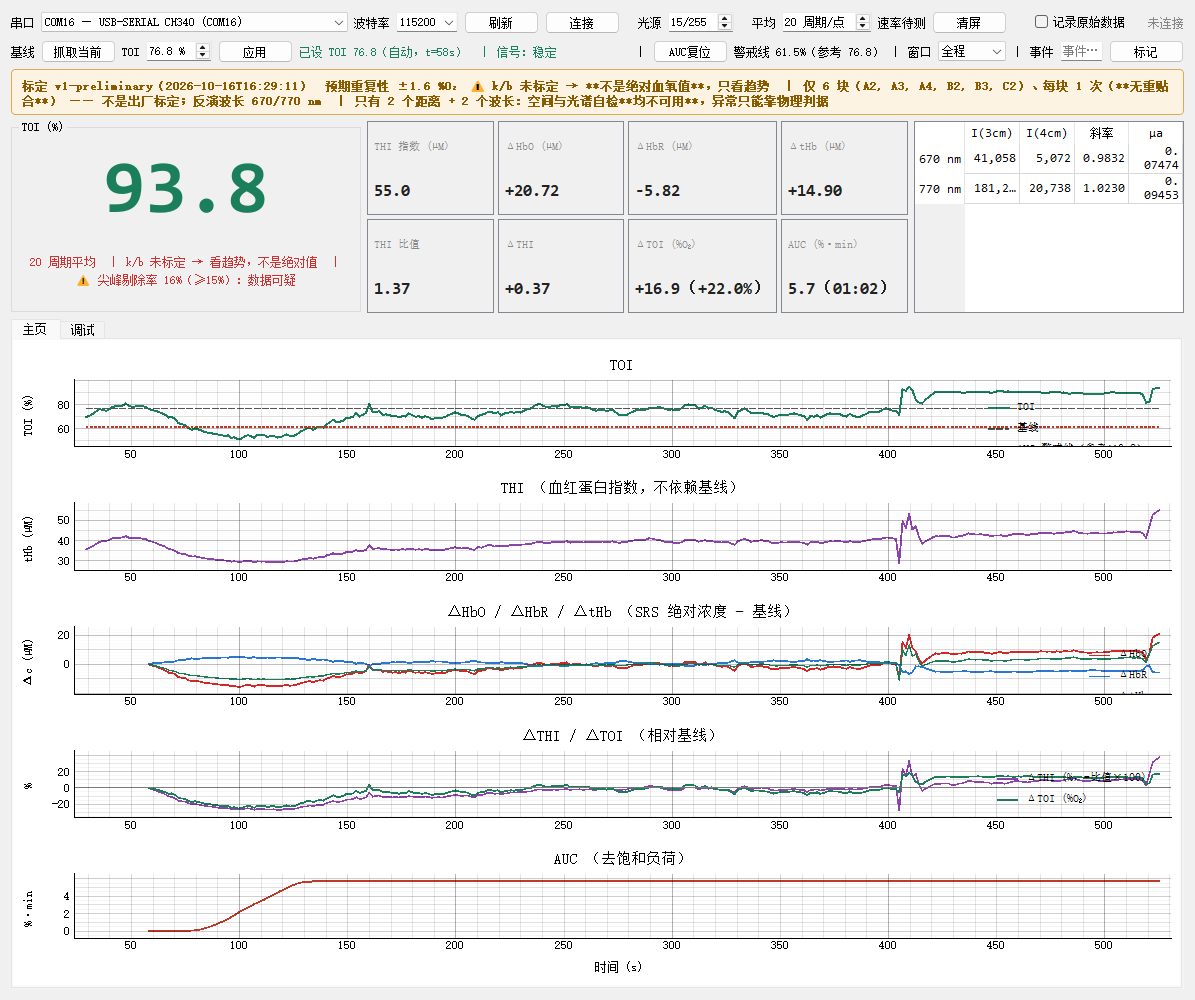
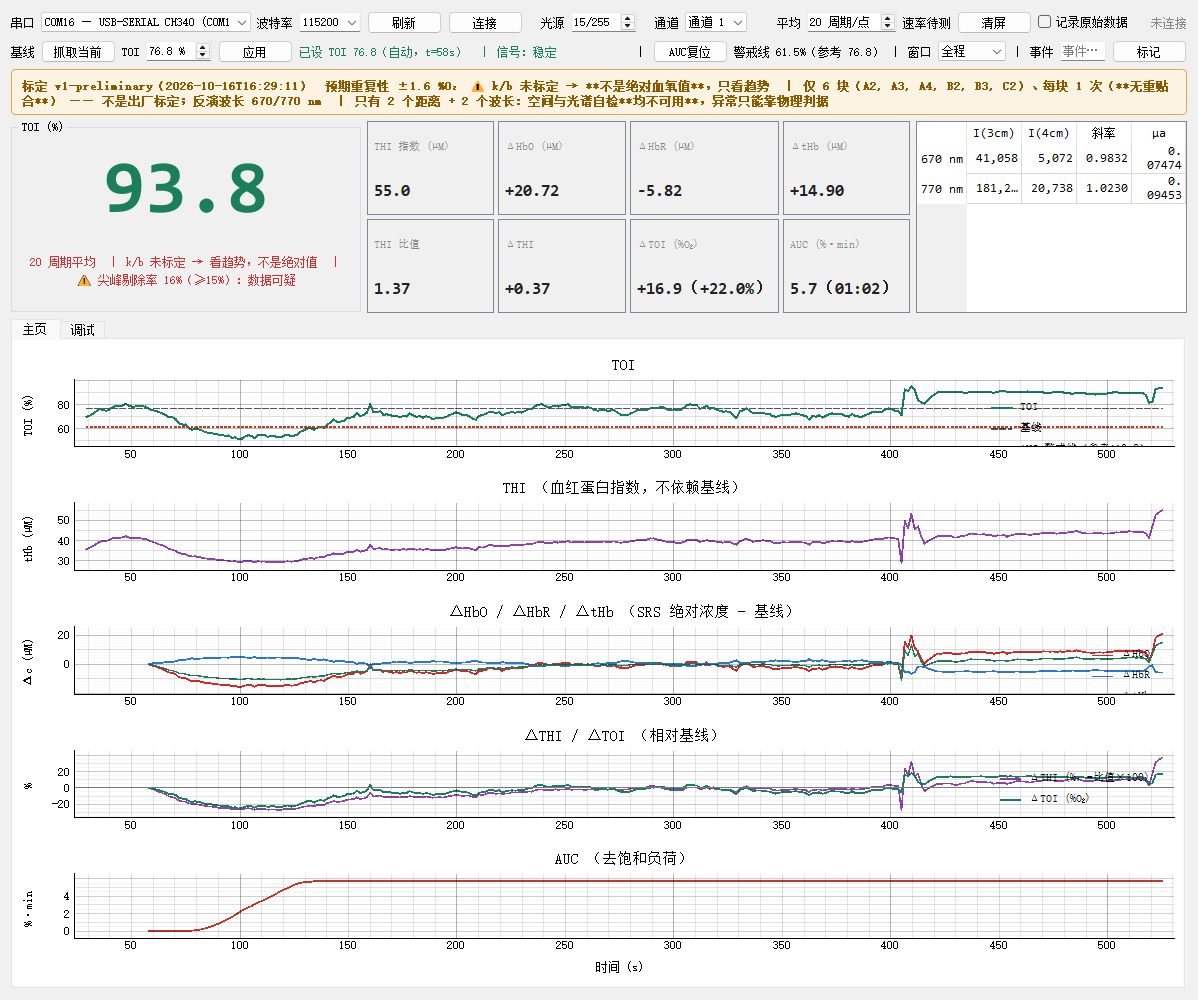
online增加通道切换功能

diff --git a/software/srs_cal/online.py b/software/srs_cal/online.py
@@ -75,7 +75,8 @@ from fnirs_pipeline.srs import (AUC_REL_DROP, BASELINE_N,  # noqa: E402
 from srs_cal.darksub import DarkSubtractor               # noqa: E402
 from srs_cal.quality import QualityMonitor, summarize    # noqa: E402
 from srs_cal.protocol import (BRIGHTNESS_DEFAULT, BRIGHTNESS_MAX,  # noqa: E402
-                              BRIGHTNESS_MIN, build_brightness)
+                              BRIGHTNESS_MIN, CHANNEL_MAX, CHANNEL_MIN,
+                              build_brightness)
 
 # DEFAULT_PORT / DEFAULT_GEAR 定义在 acquire.py，这里只 import（见上方 import 行）。
 # 两个程序共用一份，避免各改各的、悄悄跑偏。命令行 --port / --gear 可临时覆盖。
@@ -252,6 +253,13 @@ class OnlineWindow(QtWidgets.QWidget):
         self._no_dark = 0
         self._fresh: set = set()
         self._since = 0
+        # 通道校验：**以回传为准**。下发了 byte6 不等于设备真的切了 ——
+        # 2026-10-28 实测：下发通道 2，292 帧回来 byte10 全是 01，
+        # 且十路读数与通道 1 相差都在 ±1% 内（就是两次采集的正常起伏）。
+        # 所以不能拿「我发过」当「它切了」，只认数据帧自己标的通道号。
+        self._n_chan_ok = 0
+        self._n_chan_bad = 0
+        self._chan_seen: set = set()
         self._starved: list[str] = []
         self._frames = 0
         self._last_frames = 0
@@ -339,6 +347,26 @@ class OnlineWindow(QtWidgets.QWidget):
         self._bright_timer.setInterval(BRIGHTNESS_SETTLE_MS)
         self._bright_timer.timeout.connect(self._send_brightness)
         self.spn_bright.valueChanged.connect(self._bright_timer.start)
+        # 采集通道。与档位共用同一条指令帧（byte5 档位、byte6 通道），
+        # 所以改通道也走 _send_brightness。
+        self.cmb_chan = QtWidgets.QComboBox()
+        for c in range(CHANNEL_MIN, CHANNEL_MAX + 1):
+            self.cmb_chan.addItem(f"通道 {c}", c)
+        self.cmb_chan.setToolTip("\n".join((
+            f"采集通道 {CHANNEL_MIN}~{CHANNEL_MAX}。改动立即下发"
+            "（指令帧 byte6，与光源档位同一帧）。",
+            "",
+            "⚠ **byte6 是通道号这件事没有厂家文档**，是按字节位置推的。",
+            "⚠ 到 2026-10-28 为止，全部 46,572 帧归档里数据帧的 byte10",
+            "   （回传的通道号）**恒为 0x01**，从没出现过别的值。",
+            "   也就是说「切换生效了没有」目前**无法从回传数据上证实**。",
+            "   换通道后若读数毫无变化，先怀疑这条，别先怀疑探头。",
+            "",
+            "⚠ 换通道 = 换探头 = 换光学套件，**G(λ) 标定不跨套件转移**。",
+            "   每个通道都要各标一份，否则绝对值无意义。")))
+        self.cmb_chan.currentIndexChanged.connect(self._on_channel)
+        self.lbl_chan = QtWidgets.QLabel("")
+        self.lbl_chan.setStyleSheet("color:#8a5a00")
         self.lbl_avg = QtWidgets.QLabel()
         self.btn_reset = QtWidgets.QPushButton("清屏")
         self.btn_reset.setToolTip("清掉曲线、基线与 AUC，自动基线重新开始等稳定。")
@@ -347,6 +375,7 @@ class OnlineWindow(QtWidgets.QWidget):
                   QtWidgets.QLabel("波特率"), self.cmb_baud,
                   self.btn_refresh, self.btn_conn,
                   QtWidgets.QLabel("  光源"), self.spn_bright,
+                  QtWidgets.QLabel("  通道"), self.cmb_chan, self.lbl_chan,
                   QtWidgets.QLabel("  平均"), self.spn_avg, self.lbl_avg,
                   self.btn_reset):
             bar.addWidget(w)
@@ -700,30 +729,64 @@ class OnlineWindow(QtWidgets.QWidget):
         self.spn_bright.setValue(getattr(self, "auto_gear", DEFAULT_GEAR))
         self._bright_timer.start()
 
-    def _send_brightness(self) -> None:
-        """下发档位。在线没有「一次采集」的概念，随时可改。
+    def _on_channel(self) -> None:
+        """换通道 = 换探头。立即下发，并把界面状态全部作废。"""
+        self._bright_timer.stop()       # 不等防抖，换探头要立刻生效
+        self._send_brightness()
 
-        但 G(λ) 是在某个档位下标的 —— 换档位后 TOI 是否还成立取决于
-        五路 LED 是否等比例变化（未验证）。所以要在界面上留痕。
+    def channel(self) -> int:
+        return int(self.cmb_chan.currentData())
+
+    def _send_brightness(self) -> None:
+        """下发档位与通道（同一帧：byte5 档位、byte6 通道）。
+
+        在线没有「一次采集」的概念，随时可改。但 G(λ) 是在某个档位、某个探头
+        下标的 —— 换档位后 TOI 是否还成立取决于五路 LED 是否等比例变化
+        （未验证）；换通道则直接换了光学套件，**标定一定不再成立**。
+        所以两者都要清屏、都要轮转归档、都要在界面上留痕。
         """
         if self.worker is None:
             return
-        g = self.spn_bright.value()
+        g, ch = self.spn_bright.value(), self.channel()
         prev = getattr(self, "_gear_sent", None)
-        self.worker.send(build_brightness(g))
-        self._gear_sent = g
-        self._reset()               # 换了光源，之前的曲线不是同一条件，清掉
-        # 归档同理：换档位就开新文件，让每个归档文件的头里恰好**一个**档位。
-        # 否则文件头记的是开始归档那一刻的档位，中途改了就对不上 ——
-        # 而原始帧里**不含档位**（档位只在出站的指令帧里），事后无从还原。
+        prev_ch = getattr(self, "_chan_sent", None)
+        self.worker.send(build_brightness(g, ch))
+        self._gear_sent, self._chan_sent = g, ch
+        self._reset()               # 换了光源/探头，之前的曲线不是同一条件，清掉
+        # 归档同理：换档位或换通道就开新文件，让每个归档文件的头里恰好
+        # **一个**档位、**一个**通道。否则文件头记的是开始归档那一刻的值，
+        # 中途改了就对不上 —— 而原始帧里**不含档位**（档位只在出站的指令帧里），
+        # 通道虽有 byte10 但实测恒为 0x01，两者事后都无从还原。
         #
-        # ⚠ 只在档位**真的变了**时轮转。`_send_brightness` 会被防抖定时器
+        # ⚠ 只在**真的变了**时轮转。`_send_brightness` 会被防抖定时器
         #    重复触发（同一档位也会再发一次），不加这个守卫会产生文件碎片。
-        if self.archive is not None and prev != g:
+        if self.archive is not None and (prev != g or prev_ch != ch):
             self._stop_record()
             self._start_record()
-        # 质量层的会话基线也不能跨档位沿用 —— 换了档位比值会整体平移。
+        # 质量层的会话基线也不能跨档位/跨通道沿用。
         self.quality.reset()
+        self._refresh_chan_label()
+
+    def _refresh_chan_label(self) -> None:
+        """通道状态。先报「收没收到」，再报标定是否适用 —— 前者更要紧。"""
+        ch = self.channel()
+        if self._n_chan_bad and not self._n_chan_ok:
+            seen = "、".join(str(c) for c in sorted(self._chan_seen))
+            self.lbl_chan.setText(
+                f"✗ 通道 {ch} 无数据：收到 {self._n_chan_bad} 帧，"
+                f"但都标着通道 {seen} —— 设备未切换")
+            self.lbl_chan.setStyleSheet("color:#c33;font-weight:bold")
+            return
+        if self._n_chan_bad:
+            self.lbl_chan.setText(f"⚠ 混入 {self._n_chan_bad} 帧非本通道，已丢弃")
+            self.lbl_chan.setStyleSheet("color:#c33")
+            return
+        # 标定是按某一路探头标的，换通道后 G(λ) 不再成立 —— 必须显形。
+        self.lbl_chan.setText(
+            "" if ch == CHANNEL_MIN
+            else f"⚠ 通道 {ch}：标定 {self.cal.doc.get('version', '?')} "
+                 f"是按通道 {CHANNEL_MIN} 标的，绝对值不可信")
+        self.lbl_chan.setStyleSheet("color:#8a5a00")
 
     # ------------------------------------------------------------------
     # 原始归档（架构文档 R9）
@@ -744,6 +807,9 @@ class OnlineWindow(QtWidgets.QWidget):
                 #    连上就立刻归档时它还没有，直接取会抛 AttributeError，
                 #    被下面的 except 吞掉 → 归档静默不启动。
                 "gear": getattr(self, "_gear_sent", None),
+                # 通道同理。原始帧的 byte10 实测恒为 0x01，**回传不可信**，
+                # 所以归档里记的是我们**下发**的那个通道号。
+                "channel_sent": getattr(self, "_chan_sent", None),
                 "cal": self.cal.doc.get("version", "none"),
                 "wavelengths_active_nm": [float(w) for w in WL],
                 "rho_cm": [float(r) for r in RHO],
@@ -849,6 +915,9 @@ class OnlineWindow(QtWidgets.QWidget):
         self._fresh.clear()
         self._since = 0
         self._starved = []
+        self._n_chan_ok = 0
+        self._n_chan_bad = 0
+        self._chan_seen.clear()
 
     # -- 反演 --------------------------------------------------------------
 
@@ -919,8 +988,18 @@ class OnlineWindow(QtWidgets.QWidget):
         if need != self._need:
             self._resize(need)
         nk = len(self._keys)
+        want = self.channel()
         for f in frames:
             self._frames += 1
+            # ⚠ **通道以回传为准**：帧自己标的 byte10 不等于选中的通道，
+            #    这一帧就不属于当前通道，直接不要 —— 「没有就是没有」，
+            #    不能把别的通道（或根本没切换）的数据当成选中通道的来显示。
+            #    归档在上面已经写过了，原始数据一帧不丢。
+            self._chan_seen.add(f.channel)
+            if f.channel != want:
+                self._n_chan_bad += 1
+                continue
+            self._n_chan_ok += 1
             # 暗时隙排在每个周期最前：记下本周期的暗，后面的信号帧当场扣。
             # 这比标定文件里的静态暗电平强得多 —— 暗电平的漂移时间常数
             # 只有几个周期，静态值几秒钟就过期了。
@@ -1085,6 +1164,7 @@ class OnlineWindow(QtWidgets.QWidget):
         # 基线 / AUC 状态放在早退之前：开头 SRS 还没出点时，
         # 这一行正该说清「在等什么」。
         self._refresh_bars()
+        self._refresh_chan_label()
         if not hasattr(self, "last_res"):
             self._refresh_wait()
             return
@@ -1177,11 +1257,22 @@ class OnlineWindow(QtWidgets.QWidget):
         """
         n = min((len(d) for d in self.win.values()), default=0)
         need = self._need
-        cps = self._fps / FRAMES_PER_CYCLE if self._fps > 0 else 0.0
-        eta = f"，还差 {(need - n) / cps:.0f} s" if cps > 0 else ""
         self.p_toi.setXRange(0, max(need, 1), padding=0)
         self.p_toi.setYRange(0, 100, padding=0)
         self.txt_toi.setPos(need / 2.0, 50.0)
+        # 一帧都没收到本通道的 —— 这不是「在攒」，是「没有」，要分开说
+        if self._n_chan_bad and not self._n_chan_ok:
+            seen = "、".join(str(c) for c in sorted(self._chan_seen))
+            self.txt_toi.setHtml(
+                "<div style='text-align:center;font-size:11pt;color:#c33'>"
+                f"<b>通道 {self.channel()} 没有数据</b><br>"
+                "<span style='font-size:9pt'>"
+                f"收到 {self._n_chan_bad} 帧，但都标着通道 {seen}。<br>"
+                "设备没有切换 —— 要么该通道无硬件，要么切换指令不对</span></div>")
+            self.txt_toi.setVisible(True)
+            return
+        cps = self._fps / FRAMES_PER_CYCLE if self._fps > 0 else 0.0
+        eta = f"，还差 {(need - n) / cps:.0f} s" if cps > 0 else ""
         self.txt_toi.setHtml(
             "<div style='text-align:center;font-size:11pt'>"
             f"<b>攒第一个平均窗　{n} / {need} 周期{eta}</b><br>"

diff --git a/software/srs_cal/selftest.py b/software/srs_cal/selftest.py
@@ -1454,18 +1454,20 @@ def t19_online_ui() -> None:
            (770.0, 3.0): 343269, (770.0, 4.0): 56690}
     DARK, DT = 1000, 1.5213
 
-    def frames(c0, n, scale=1.0):
+    def frames(c0, n, scale=1.0, channel=1):
+        """channel 默认 1 —— 真机数据帧的 byte10 实测恒为 0x01。"""
         out = []
         for cyc in range(c0, c0 + n):
             base = cyc * DT
             for rho in (3.0, 4.0):
                 out.append(Frame(wavelength_nm=0.0, distance_cm=rho, adc=DARK,
-                                 channel=0, raw=b"", t_host=base, cycle_id=cyc))
+                                 channel=channel, raw=b"", t_host=base,
+                                 cycle_id=cyc))
                 for j, wlx in enumerate(hw.WAVELENGTHS_ACTIVE_NM):
                     out.append(Frame(
                         wavelength_nm=float(wlx), distance_cm=rho,
                         adc=int(NET[(float(wlx), rho)] * scale) + DARK,
-                        channel=0, raw=b"", t_host=base + 0.1 * (j + 1),
+                        channel=channel, raw=b"", t_host=base + 0.1 * (j + 1),
                         cycle_id=cyc))
         return out
 
@@ -1605,6 +1607,53 @@ def t19_online_ui() -> None:
                len(win.toi_hist) > n_toi and "派生量出错" in win.lbl_sub.text(),
                f"{n_toi} → {len(win.toi_hist)}")
         del win.bl.push                      # 还原成类上的方法
+
+        # --- 通道选择（2026-10-28）------------------------------------------
+        from srs_cal.protocol import (CHANNEL_MAX, CHANNEL_MIN,
+                                      build_brightness, format_frame)
+        _check("19 通道下拉框有 CHANNEL_MIN~CHANNEL_MAX 共 4 项",
+               win.cmb_chan.count() == CHANNEL_MAX - CHANNEL_MIN + 1
+               and [win.cmb_chan.itemData(i) for i in range(win.cmb_chan.count())]
+               == list(range(CHANNEL_MIN, CHANNEL_MAX + 1)),
+               f"{win.cmb_chan.count()} 项")
+        sent: list = []
+        win.worker = type("W", (), {"send": lambda self, b: sent.append(b)})()
+        win.spn_bright.setValue(15)
+        win.cmb_chan.setCurrentIndex(2)          # 通道 3
+        _check("19 换通道立即下发，byte5=档位、byte6=通道",
+               sent and sent[-1][5] == 15 and sent[-1][6] == 3
+               and win.channel() == 3,
+               format_frame(sent[-1])[:26] if sent else "没发")
+        _check("19 换通道后清屏（换探头 = 换光学套件，旧曲线与基线作废）",
+               len(win.toi_hist) == 0 and win.bl.baseline is None)
+        _check("19 非 1 号通道时提示标定不适用",
+               "标定" in win.lbl_chan.text() and "通道 3" in win.lbl_chan.text(),
+               win.lbl_chan.text()[:40])
+
+        # --- 以回传为准：byte10 不符就当没有，不拿来充数 --------------------
+        win._on_frames(frames(0, 40))            # 这些帧 byte10 恒为 1
+        win._refresh()
+        _check("19 选通道 3 却只收到标着通道 1 的帧 → 一个点都不出",
+               len(win.toi_hist) == 0 and win._n_chan_ok == 0
+               and win._n_chan_bad > 0,
+               f"收 {win._n_chan_bad} 帧全部丢弃")
+        _check("19 界面明说「没有」，不是「在攒」",
+               "没有数据" in win.txt_toi.toPlainText()
+               and "✗" in win.lbl_chan.text() and "未切换" in win.lbl_chan.text(),
+               win.lbl_chan.text()[:44])
+
+        win.cmb_chan.setCurrentIndex(0)          # 回通道 1
+        win._on_frames(frames(40, 40))
+        win._refresh()
+        _check("19 回到通道 1：帧被收下，提示撤掉",
+               win._n_chan_ok > 0 and win._n_chan_bad == 0
+               and win.lbl_chan.text() == "",
+               f"收下 {win._n_chan_ok} 帧")
+        _check("19 指令帧仍与厂家样例逐字节一致（档位0、通道1）",
+               build_brightness(0x00) == bytes.fromhex(
+                   "55AA1A010100010000000000000000000000000000000000001D"),
+               format_frame(build_brightness(0x00)))
+        win.worker = None
 
         # --- 清屏 -----------------------------------------------------------
         win._reset()

diff --git a/software/srs_cal/protocol.py b/software/srs_cal/protocol.py
@@ -62,6 +62,14 @@ CODE_BY_DISTANCE = {v: k for k, v in DISTANCE_BY_CODE.items()}
 
 EXPECTED_CHANNEL = 0x01          # byte10。厂家参考实现不读这一字节，见下
 
+# 采集通道。指令帧 byte6 写它，数据帧 byte10 回它。
+#
+# ⚠ **四通道这个数字来自用户，不是厂家文档。** 而且到 2026-10-28 为止，
+#    全部 46,572 帧归档里数据帧的 byte10 **恒为 0x01**，从未出现过别的值 ——
+#    所以「下发 byte6 能切换通道」这条**未经任何回传数据证实**。
+#    真正接上多探头后，第一件要验的就是 byte10 会不会跟着变。
+CHANNEL_MIN, CHANNEL_MAX = 0x01, 0x04
+
 # ---------------------------------------------------------------------------
 # 扫描周期（2026-10-22 新增，为 t_host / cycle_id 服务）
 # ---------------------------------------------------------------------------
@@ -286,8 +294,16 @@ def format_frame(raw: bytes) -> str:
     return " ".join(split_fields(raw))
 
 
-def build_brightness(gear: int) -> bytes:
+def build_brightness(gear: int, channel: int = EXPECTED_CHANNEL) -> bytes:
     """光源档位指令。gear = 0x00 ~ 0xFF（0~255），上电默认 0x0F（15）。
+
+    `channel` 写进 byte6，用于切换采集通道（1~4）。
+
+    ⚠ **byte6 是通道号这件事没有厂家文档**。厂家 2026-10-10 的样例里它恒为
+       0x01，参考实现 `jhw-adc.py` 里也是写死的；我们是按字节位置推的。
+       同样地，数据帧的 byte10 在全部 46,572 帧归档里**恒为 0x01**，
+       从没见过第二个值 —— 也就是说「切换通道」目前**无法从回传数据上证实**。
+       换通道后若读数毫无变化，先怀疑这条，而不是怀疑探头。
 
     ⚠ 档位是**一个字节**，传 >255 会被 bytearray 拒绝。上限经历过
        0x0F → 0x96(150) → 0xFF(255) 三次上调，都是厂家确认后改的；
@@ -317,7 +333,7 @@ def build_brightness(gear: int) -> bytes:
     b[3] = FRAME_TYPE_CMD
     b[4] = 0x01                    # 厂家样例固定值，含义未明
     b[5] = max(BRIGHTNESS_MIN, min(BRIGHTNESS_MAX, int(gear)))
-    b[6] = EXPECTED_CHANNEL
+    b[6] = max(CHANNEL_MIN, min(CHANNEL_MAX, int(channel)))
     b[FRAME_LEN - 1] = checksum(bytes(b))
     return bytes(b)
 
